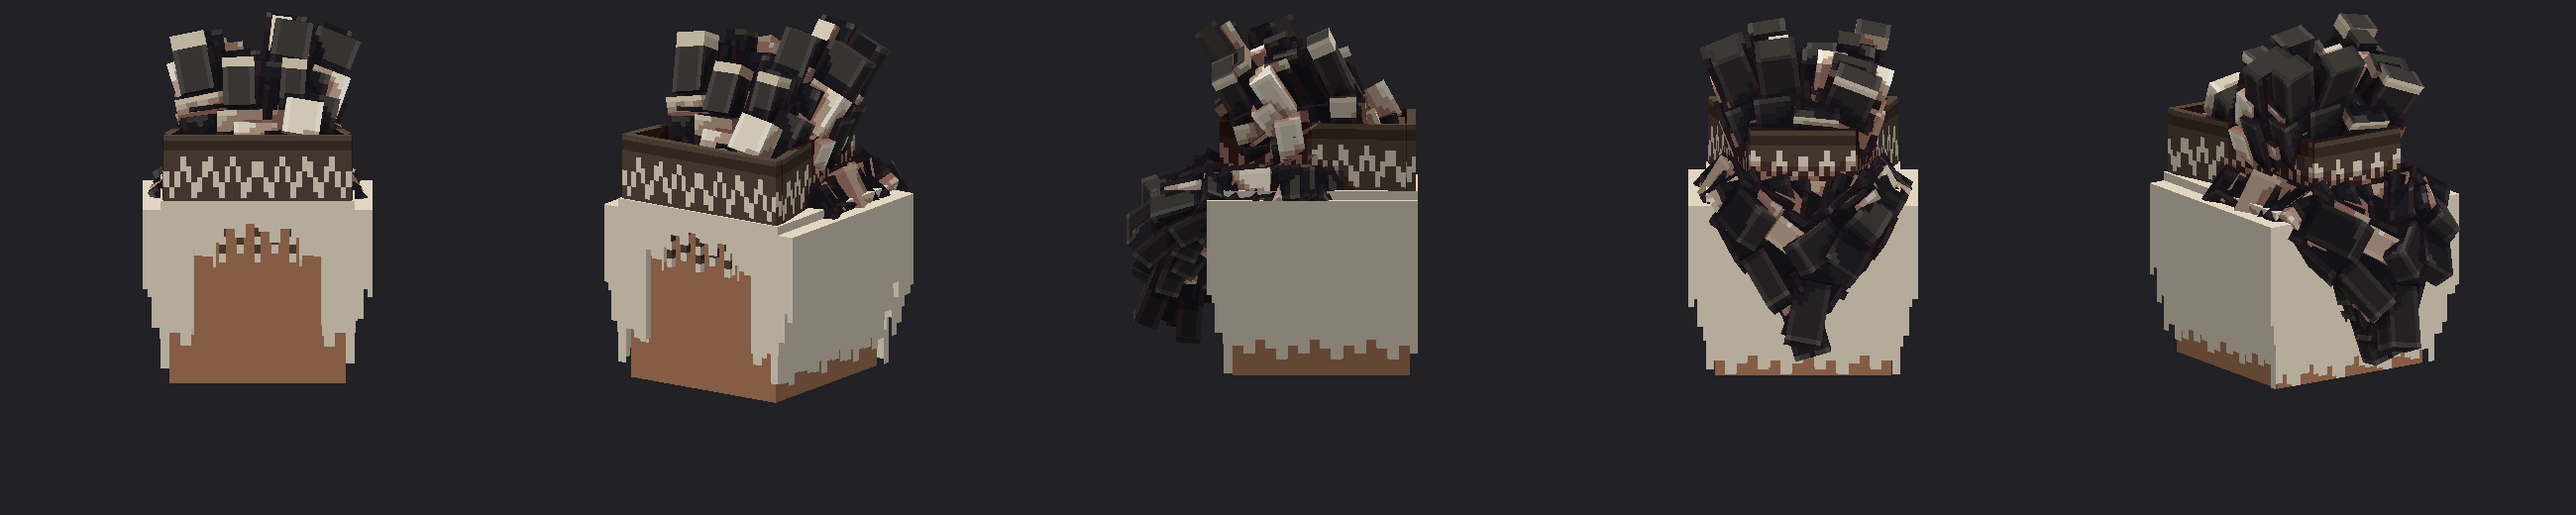
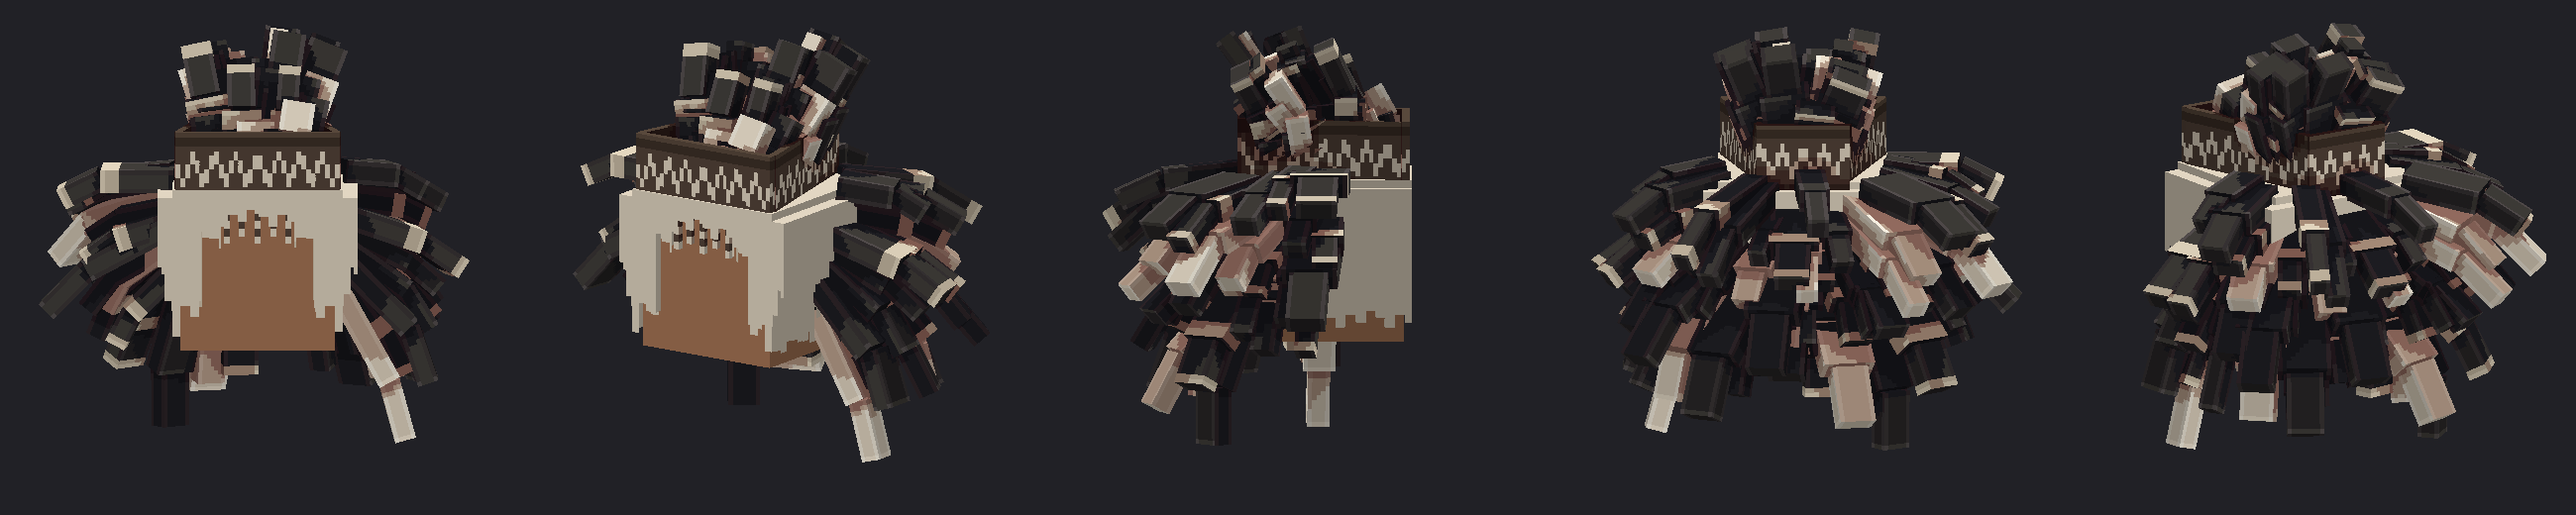
Kemira: melena de atras con mucho volumen, abierta hacia los costados
Claude-Session: https://claude.ai/code/session_01JLSuk79QgXUucDMTiBYitK

diff --git a/taller/personajes/kemira.py b/taller/personajes/kemira.py
@@ -135,15 +135,14 @@ def poner_figura(p, nombre, base, largo, ancho, rot, tono, punta=None, grosor=1.
     pint = figura(tono, punta)
     g = "Head/penacho"
     l1, l2 = largo * 0.62, largo * 0.38
-    rx, _, rz = rot
+    rx, ry, rz = rot
     p.caja(g, nombre, (x - ancho / 2, y, z - grosor / 2), (x + ancho / 2, y + l1, z + grosor / 2), pint,
            rot=rot, piv=base, dens=D)
-    a, c = math.radians(rx), math.radians(rz)                     # la junta, ya girada (orden Z * X)
-    jy, jz = l1 * math.cos(a), l1 * math.sin(a)
-    j = (x - jy * math.sin(c), y + jy * math.cos(c), z + jz)
+    from .. import malla as geo
+    j = geo.girar(([(x, y + l1, z)], []), rot, base)[0][0]      # la junta, ya girada
     w2 = ancho * 0.7
     p.caja(g, nombre + "_p", (j[0] - w2 / 2, j[1], j[2] - grosor / 2 + 0.05), (j[0] + w2 / 2, j[1] + l2, j[2] + grosor / 2 - 0.05),
-           pint, rot=(rx + dobla, 0, rz), piv=j, dens=D)
+           pint, rot=(rx + dobla, ry, rz), piv=j, dens=D)
 
 
 FX, FZ, BX, BZ = 4.1, -3.9, 2.2, 4.4                          # el trapecio de la diadema
@@ -176,26 +175,24 @@ def penacho(p, T, C):
         punta = None if crema or _azar(k + 350) < 0.6 else CREMA_PLUMA["s"]
         poner_figura(p, f"figura{k}", (x, T + 0.4, z), largo, ancho, (inclina, 0, abre), tono, punta,
                      dobla=10 + 18 * _azar(k + 400))
-    # las esquinas de atras, fuera de la diadema: caen hacia atras y abajo, abiertas a los costados
-    k = 0
-    for s in (1, -1):
-        for i in range(16):
-            z = -0.8 + 5.0 * i / 15
-            t = (z - FZ) / (BZ - FZ)
-            borde = FX + (BX - FX) * t + 0.5                         # justo afuera de la pared de la diadema
-            x = s * (borde + (3.9 - borde) * _azar(k + 600))
-            largo = 4.0 + 3.0 * _azar(k + 650)
-            tono = CREMA_PLUMA if _azar(k + 700) < 0.2 else NEGRO
-            poner_figura(p, f"cae{k}", (x, T + 0.4, z), largo, 1.4 + 1.2 * _azar(k + 750),
-                         (95 + 45 * _azar(k + 800), 0, -s * (30 + 40 * _azar(k + 850))), tono, dobla=15)
-            k += 1
-    # del borde de atras de la diadema bajan figuras hacia la nuca, pegadas a la cabeza
-    for k in range(13):
-        x = -3.6 + 7.2 * k / 12
-        largo = 5.5 + 3.0 * _azar(k + 500)
-        tono = CREMA_PLUMA if _azar(k + 550) < 0.25 else NEGRO
-        poner_figura(p, f"nuca{k}", (x, T + 1.2 - 0.6 * _azar(k + 560), BZ + 0.2), largo, 1.5 + 1.0 * _azar(k + 570),
-                     (150 + 20 * _azar(k + 580), 0, -x * 9), tono, dobla=8)
+    # la melena de atras: muchas figuras que salen de la parte de atras y los costados de la cabeza (y de las
+    # esquinas de atras de arriba, donde no hay diadema) y se abren hacia afuera, a los lados y hacia abajo
+    n = 90
+    for k in range(n):
+        phi = -115 + 230 * ((k * 0.618) % 1.0)                    # 0 = derecho hacia atras
+        alto = _azar(k + 600)
+        y = C + 2.0 + (T + 0.6 - C - 2.0) * alto
+        rad = math.radians(phi)
+        r = 4.3 / max(abs(math.sin(rad)), abs(math.cos(rad)))     # sobre el borde de la cabeza cuadrada
+        x, z = r * math.sin(rad), r * math.cos(rad)
+        if z < 0.0:                                               # nada adelante de las orejas
+            continue
+        elev = -60 + 55 * alto + 16 * (_azar(k + 650) - 0.5)     # salen hacia afuera y caen; las de arriba algo mas paradas
+        largo = 4.0 + 4.5 * _azar(k + 700)
+        tono = CREMA_PLUMA if _azar(k + 750) < 0.2 else NEGRO
+        punta = None if tono is CREMA_PLUMA or _azar(k + 760) < 0.6 else CREMA_PLUMA["s"]
+        poner_figura(p, f"melena{k}", (x, y, z), largo, 1.4 + 1.6 * _azar(k + 800),
+                     (90 - elev, phi, 0), tono, punta, dobla=12 + 16 * _azar(k + 850))      # la punta cae
 
 
 def construir():
